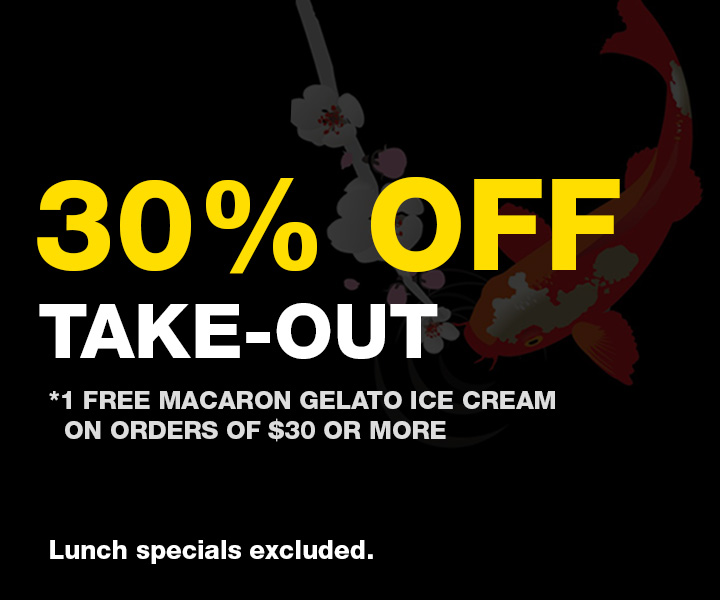
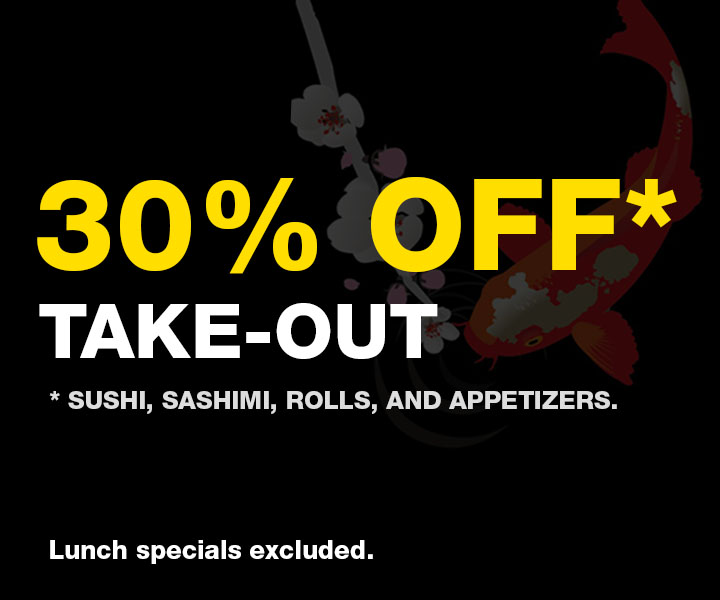
hero offers updated

Changed region(s): [[0.0917, 0.63, 0.8556, 0.75], [0.8556, 0.3, 0.9472, 0.39]]

diff --git a/components/Alerts.js b/components/Alerts.js
@@ -6,8 +6,8 @@ export default function Alerts() {
       <Alert severity="info">
         <AlertTitle>Valued Patrons,</AlertTitle>
         We will continue to open our doors for take-out orders and delivery
-        only. Get free delivery with Uber Eats. 30% OFF discount for all
-        take-out orders.
+        only. Get free delivery with Uber Eats. 30% OFF discount for sushi,
+        sashimi, rolls, and appetizers.
       </Alert>
     </div>
   );
